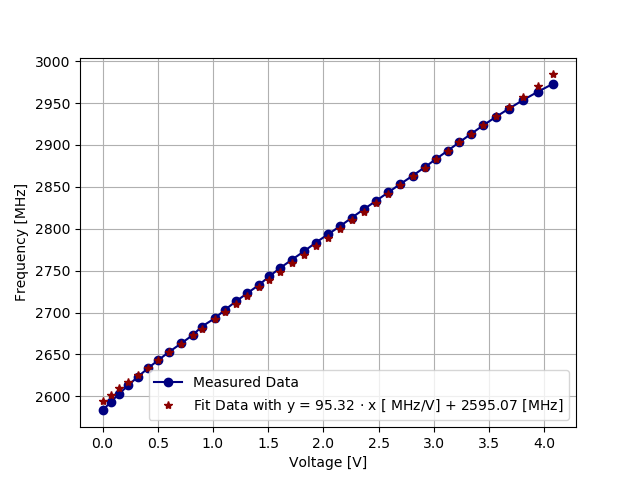
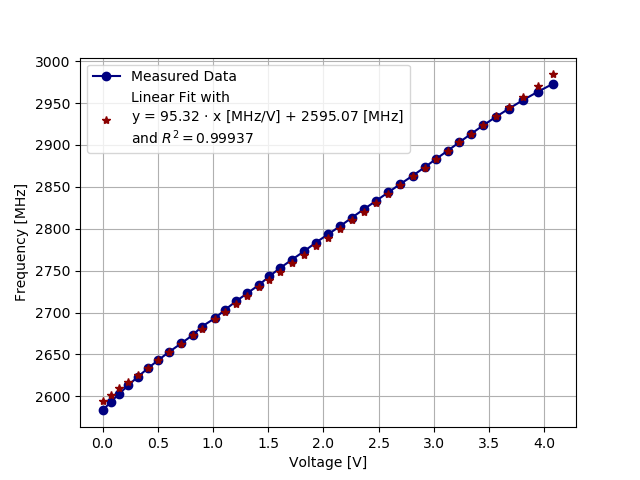
Added R^2 value to the frequency vs voltage plot.

diff --git a/plot_data.py b/plot_data.py
@@ -1,6 +1,7 @@
 import matplotlib.pyplot as plt
 import numpy as np
 
+from scipy.stats import linregress
 from scipy.optimize import curve_fit
 
 
@@ -9,14 +10,15 @@ from scripts.data_handling import compute_background_intensity, adjust_intensity
 
 
 def plot_data_voltage_frequency_correlation(x_values, y_values):
-	popt = curve_fit(linear_function, x_values, y_values)
-	slope, interceipt = popt[0]
-
-	y_values_fit = linear_function(x_values, slope, interceipt)
+	result = linregress(x_values, y_values)
+	print(result.slope, result.intercept, result.rvalue)
+	y_values_fit = linear_function(x_values, result.slope, result.intercept)
 
 	plt.plot(x_values, y_values, 'o-', label='Measured Data', color="navy")
 	plt.plot(x_values, y_values_fit, '*',
-			 label=f'Fit Data with y = {slope:.2f} $\cdot$ x [ MHz/V] + {interceipt:.2f} [MHz]', color="darkred")
+			 label=f'Linear Fit with\n'
+				   f'y = {result.slope:.2f} $\cdot$ x [MHz/V] + {result.intercept:.2f} [MHz]\n'
+				   f'and $R^2=${result.rvalue:.5f}', color="darkred")
 
 	plt.grid()
 
